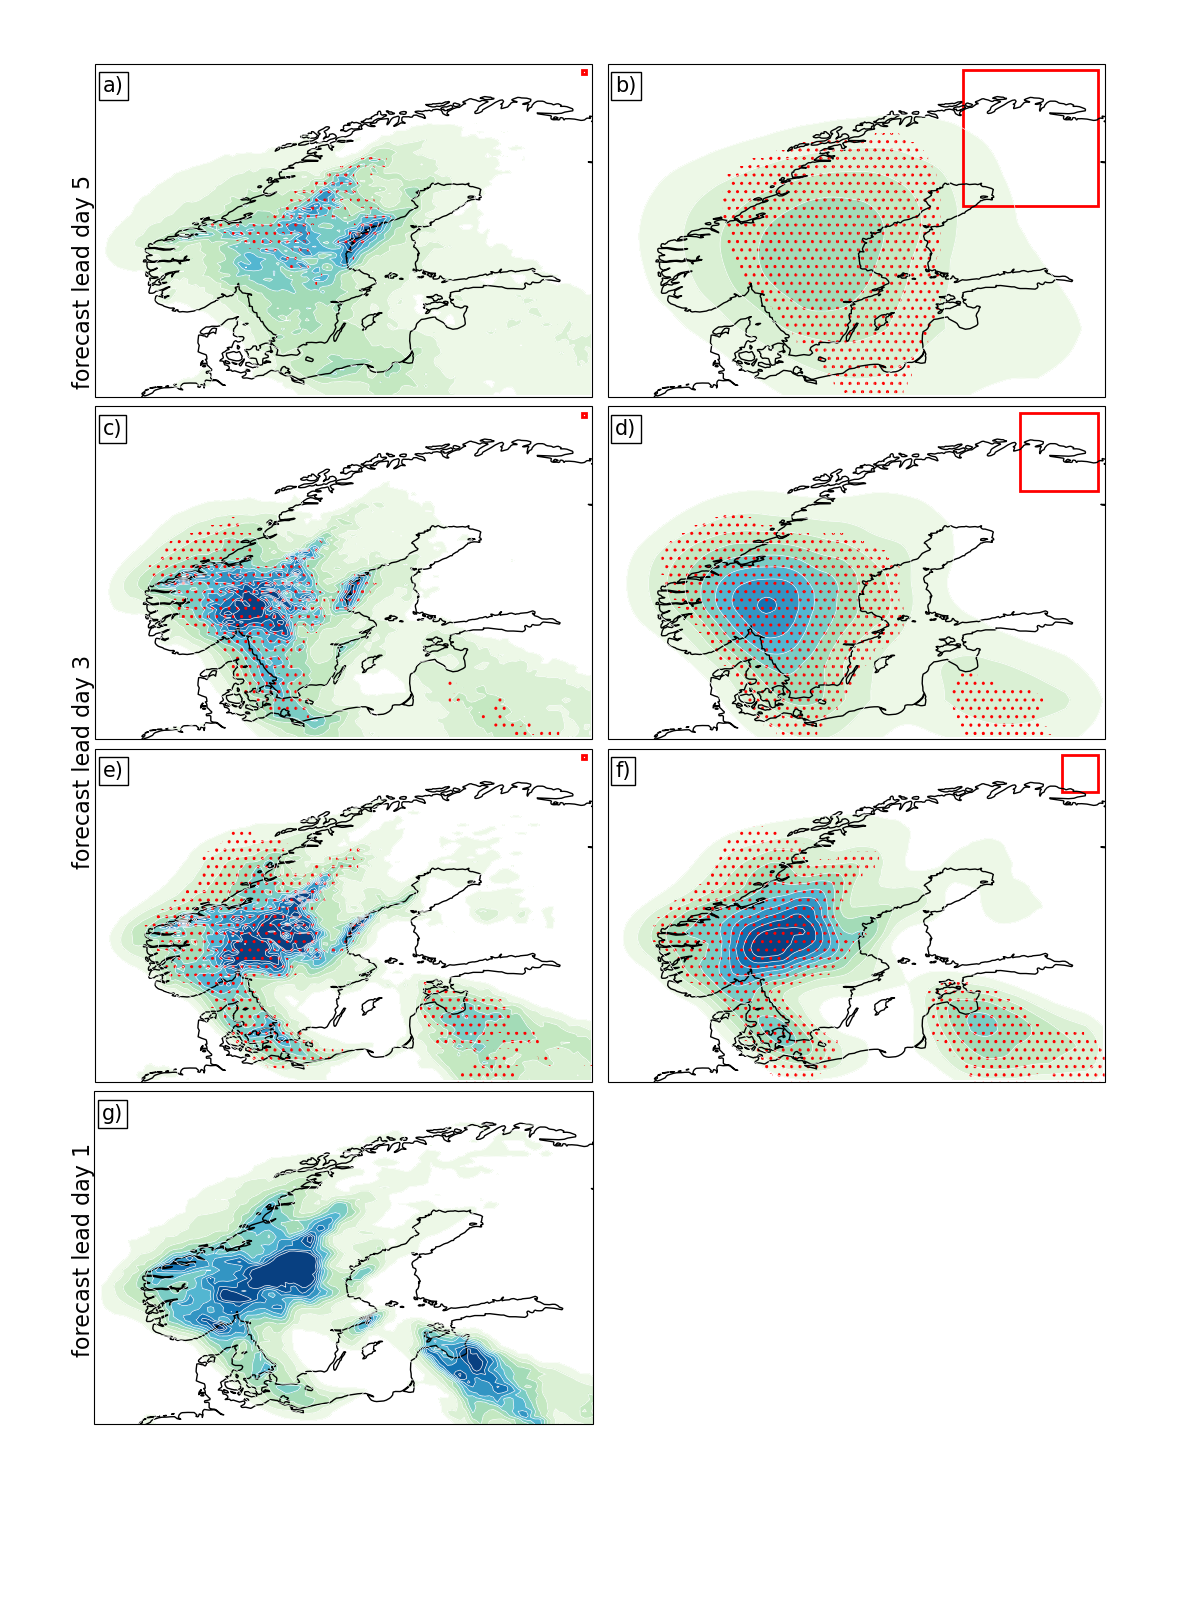
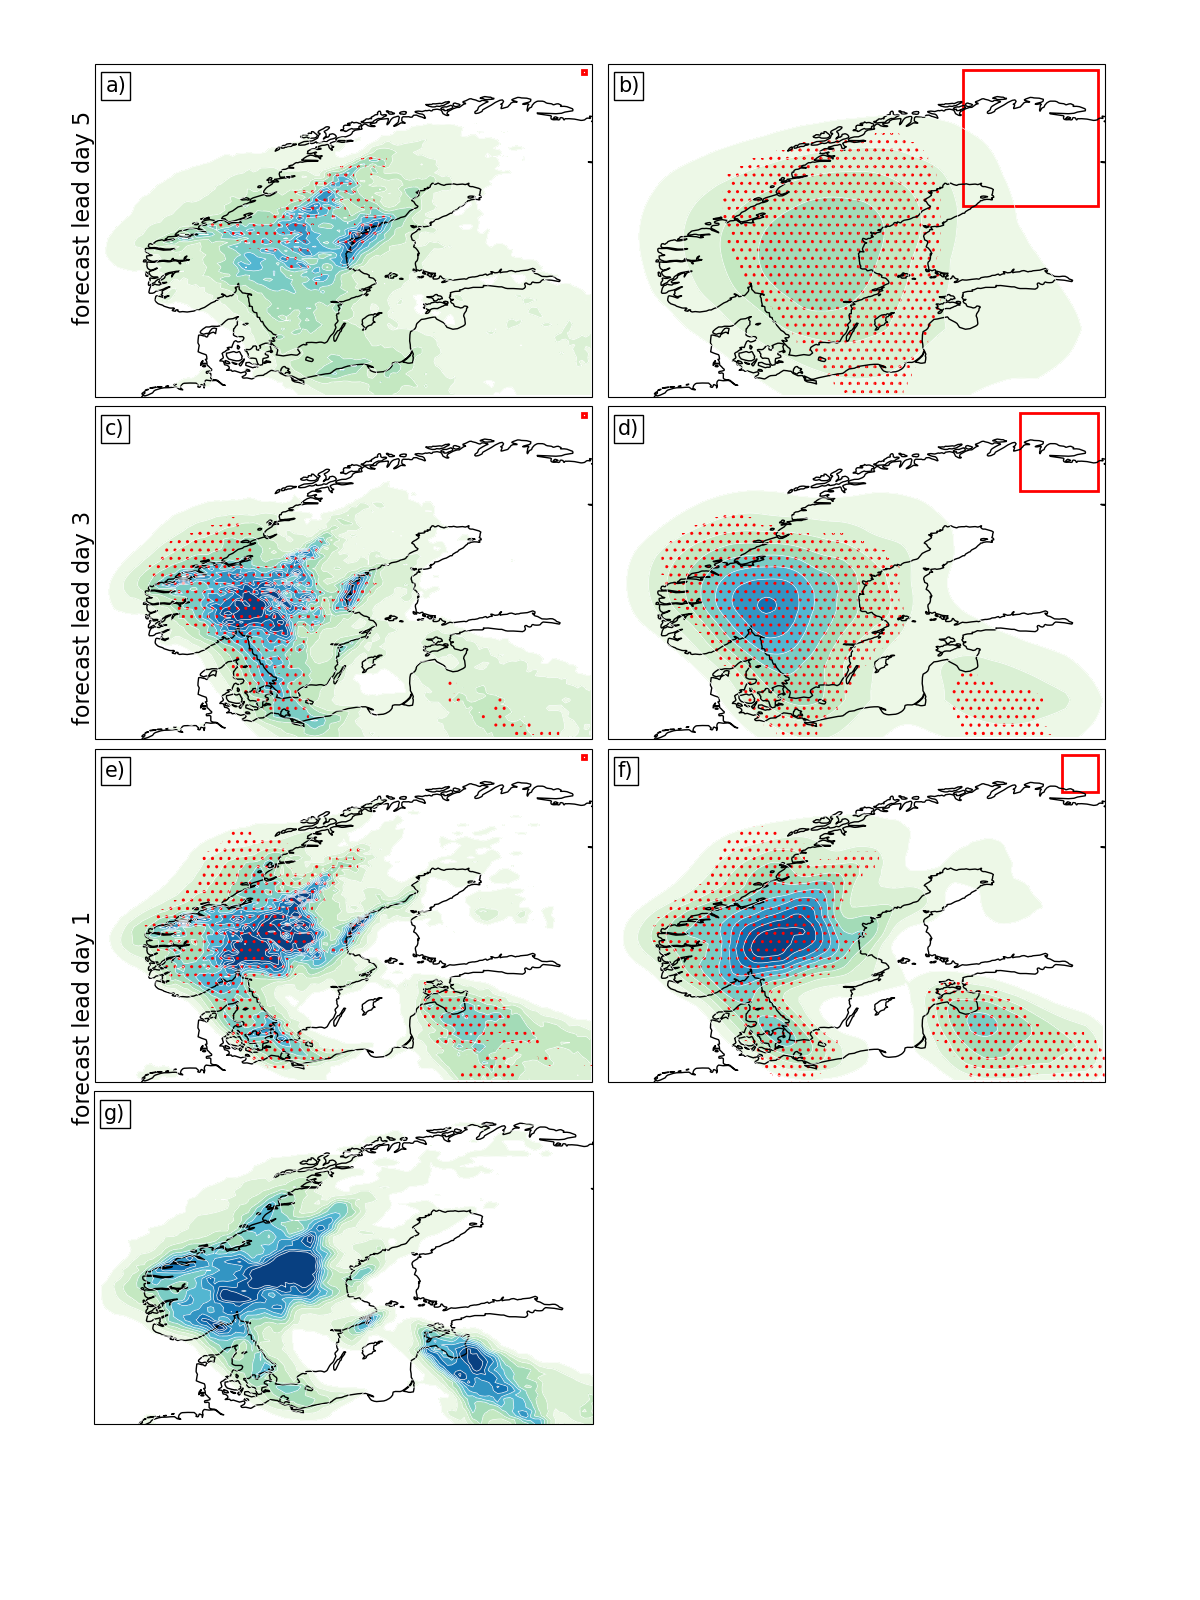
update

diff --git a/code/plot/test.py b/code/plot/test.py
@@ -31,7 +31,7 @@ def setup_subplot_xy(flag, ax, ds1, ds2, clevs, cmap, fontsize, title, stats):
         
     ax.coastlines(color='k',linewidth=1)
     #ax.set_title(title,fontsize=fontsize+5)
-    ax.set_title(title, fontsize=fontsize + 4,loc='left', ha='left', y=0.89, x=0.015, bbox={'facecolor': 'white', 'edgecolor': 'black', 'pad': 3})    
+    ax.set_title(title, fontsize=fontsize + 4,loc='left', ha='left', y=0.89, x=0.02, bbox={'facecolor': 'white', 'edgecolor': 'black', 'pad': 3})    
     
     return p
 
@@ -119,9 +119,10 @@ ax[7].set_frame_on(False)
 #cb.ax.tick_params(labelsize=fontsize, size=0)
 #cb.ax.set_title('daily accumulated precipitation [mm/day]', fontsize=fontsize+4,y=1.01)
 
-fig.text(0.06,0.76,'forecast lead day 5',rotation=90,fontsize=fontsize+5)
-fig.text(0.06,0.46,'forecast lead day 3',rotation=90,fontsize=fontsize+5)
-fig.text(0.06,0.155,'forecast lead day 1',rotation=90,fontsize=fontsize+5)
+
+fig.text(0.06,0.8,'forecast lead day 5',rotation=90,fontsize=fontsize+5)
+fig.text(0.06,0.55,'forecast lead day 3',rotation=90,fontsize=fontsize+5)
+fig.text(0.06,0.3,'forecast lead day 1',rotation=90,fontsize=fontsize+5)
 
 if write2file: plt.savefig(path_out + figname_out)
 plt.show()
